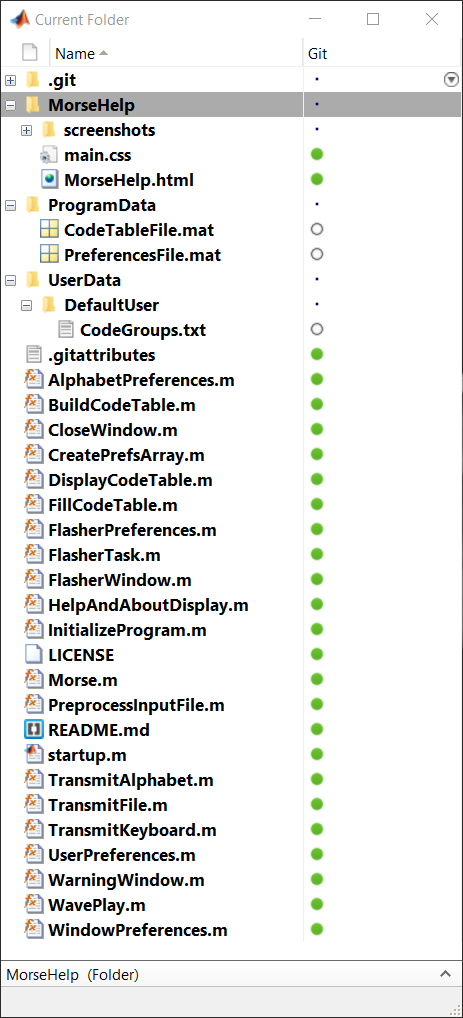
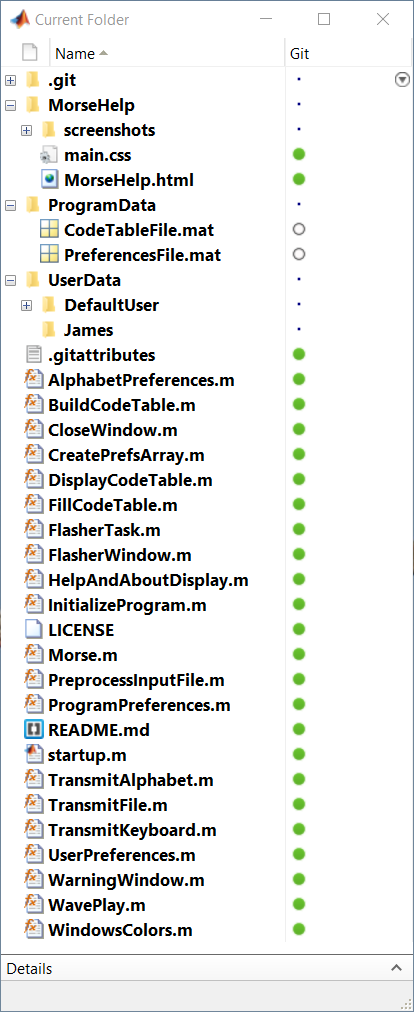
Updated help and user preferences

diff --git a/MorseHelp/MorseHelp.html b/MorseHelp/MorseHelp.html
@@ -113,14 +113,14 @@
             
         </a><h5>4.1.1 Drop Down Menu</h5>
         <p>
-        The drop down menu on the main program figure has the following choices:
+        The drop down menu on the main program figure has the following choices. The details are fully explained in subsequent sections detailing each of the program windows.
         </p>
         <li><em>Preferences</em>
                 <ul>
-                    <li>UserPreferences - Opens the User Preferences to allow the user to make changes or select a different user
+                    <li>UserPreferences - Opens the User Preferences Window to allow the user to make changes to a user, add a user, delete a user or select a user to be the active user.
                     </li>
                     <li>
-                    Window Preferences - Opens the Windows Preferences to allow the user to select save window position on exit
+                    Program Preferences - Opens the Program Preferences Window to allow the user to manage a number of program preferences and options. Also there are a number of screens and objedts whose color can be customized by the user.
                     </li>
                     <li>
                     Reset All Preferences - Deletes all added users and returns the program to its initial state.
@@ -154,7 +154,7 @@
             <img alt="A screenshot showing User Preferences" src="screenshots/UserPreferencesWindow.png"/ width="400">
         </a>
         <p>
-            This window displays the currently selected user at the top of the window. The drop down box labeled "Select a User" can be selected to allow you to "Add a New User" or to select a user from the list displayed.  If a user is selected, that users preferences are displayed and can be edited if desired. After the editing is complete, select "Save" to save the changes. If the user selected is not the "Currently Selected User", then "Make Active" can be selected and the current user will be replaced with the new or changed user.  Also the selected user can be deleted if desired.  Note that the Default User cannot be deleted or edited. Depending on the task being performed, only certain of the action buttons along the bottom of the window are displayed or enabled.
+            This window displays the currently selected user at the top of the window. The drop down box labeled "Select a User" can be selected to allow you to "Add a New User" or to select a user from the list displayed.  If a user is selected, that users preferences are displayed and can be edited if desired. After the editing is complete, select "Save" to save the changes. If the user selected is not the "Currently Selected User", then "Make Active" can be selected and the current user will be replaced with the new or changed user.  Also the selected user can be deleted if desired.  Depending on the task being performed, only certain of the action buttons along the bottom of the window are displayed or enabled.
         </p>
         <p>------------------------------------------------------------------------------------------------------------------------------------------------------</p>
         <h5 id="4.1.2">4.1.2 Program Preferences Window</h5>
@@ -178,9 +178,39 @@
                 Flasher - There is a checkbox to enable the Flasher function. The default value is unchecked. If enabled, the Flasher window will open during any of the transmission modes and a visual display of the dots and dashes will be shown. The On and Off buttons allow the user to selecr these respective colors. Clicking either button will open a color selector to select a color.
             </li>
         </ul>
-            
+        <p>
+            Along the bottom of the window are three "action" buttons. Exit of course closes the window and returns to the main window without making any changes. Save will save any changes before closing. Finally Color will open a Color Preferences window which is described next.
+        </p>    
+
+       <p>------------------------------------------------------------------------------------------------------------------------------------------------------</p>
+       
+        <h5 id="4.1.3">4.1.3 Color Preferences Window</h5>
+        <p>
+            When Color is selected on the Program Preferences Window, the window shown below opens. 
+        </p>
+        <a href="screenshots/ColorWindow.png">
+            <img alt="A screenshot showing Color Preferences" src="screenshots/ColorWindow.png"/ width="400">
+        </a>
+        <p>
+            x
+            </p>
+        <ul>
+            <li>
+                x
+            </li>
+            <li>
+                x
+            </li>
+            <li>
+                x
+            </li>
+        </ul>
+        <p>
+            x
+        </p>    
 
         <p>------------------------------------------------------------------------------------------------------------------------------------------------------</p>
+        
         <h4 id="4.2">4.2 Transmit from Alphabet Window</h4>
         <p>
             When Transmit Alphabet is selected on the main window, the window shown below opens.

diff --git a/UserPreferences.m b/UserPreferences.m
@@ -222,6 +222,9 @@ function UserPreferences()
      
 %% UpdateUserCallback ---------------------------------------------
 function UpdateUserCallback(src, ~, num)
+    
+    set(UserNameHandle,'enable','inactive');
+    
     switch num
         case 0  % Drop Down Menu
             dropdownSelect = get(src,'Value');
@@ -260,26 +263,7 @@ function UpdateUserCallback(src, ~, num)
                 set(DeletePushbuttonHandle,'enable','inactive');
             end
             
-            if dropdownSelect == 3  % Default user selected
-                set(UserNameHandle,'string',allUsersPrefs{1, userSelect});
-                set(CodeSpeedHandle,'string',allUsersPrefs{2, userSelect});
-                set(WordSpeedHandle,'string',allUsersPrefs{3, userSelect});
-                set(FrequencyHandle,'string',allUsersPrefs{4, userSelect});
-                set(UserNameHandle,'enable','inactive');
-                set(CodeSpeedHandle,'enable','inactive');
-                set(WordSpeedHandle,'enable','inactive');
-                set(FrequencyHandle,'enable','inactive');
-                set(SaveAddPushbuttonHandle,'string','');
-                set(SaveAddPushbuttonHandle,'enable','inactive');
-                set(DeletePushbuttonHandle,'string','');
-                set(DeletePushbuttonHandle,'enable','inactive');
-                if currentUserIndex > 2
-                    set(MakeActivePushbuttonHandle,'string','Make Active');
-                    set(MakeActivePushbuttonHandle,'enable','on');
-                end
-            end
-            
-            if dropdownSelect > 3
+            if dropdownSelect > 2
                 set(UserNameHandle,'string',allUsersPrefs{1, userSelect});
                 set(CodeSpeedHandle,'string',allUsersPrefs{2, userSelect});
                 set(WordSpeedHandle,'string',allUsersPrefs{3, userSelect});
@@ -289,12 +273,17 @@ function UpdateUserCallback(src, ~, num)
                 set(FrequencyHandle,'enable','on');
                 set(SaveAddPushbuttonHandle,'string','Save');
                 set(SaveAddPushbuttonHandle,'enable','on');
-                if currentUserIndex ~= userSelect
+                if currentUserIndex ~= userSelect %Didnt select active user
                     set(MakeActivePushbuttonHandle,'string','Make Active');
                     set(MakeActivePushbuttonHandle,'enable','on');
                 end
-                set(DeletePushbuttonHandle,'string','Delete');
-                set(DeletePushbuttonHandle,'enable','on');
+                if userSelect == 2  % Selected Default User
+                    set(DeletePushbuttonHandle,'string','');
+                    set(DeletePushbuttonHandle,'enable','inactive');
+                else
+                    set(DeletePushbuttonHandle,'string','Delete');
+                    set(DeletePushbuttonHandle,'enable','on');
+                end
                 
             end   
             
@@ -303,14 +292,12 @@ function UpdateUserCallback(src, ~, num)
             inputCount(1) = 1;
             if dropdownSelect == 2  % Add new user
                 tempNewUser{1} = userName;
-            else
-                allUsersPrefs{1, userSelect} = userName;
             end
 
         case 2  % Code Speed
             codeSpeed = str2double(get(src,'String'));
             if isnan(codeSpeed)
-                WarningWindow(windowsPrefs,numericWarning1);
+                WarningWindow(numericWarning1);
                 set(src,'String',' ');
                 inputCount(2) = 0;
                 return
@@ -359,7 +346,7 @@ function UpdateUserCallback(src, ~, num)
                 % operator
                 for index0 = 1:4
                     if inputCount(index0) ~= 1
-                        WarningWindow(windowsPrefs,numericWarning2);
+                        WarningWindow(numericWarning2);
                         return
                     end
                 end
@@ -373,6 +360,8 @@ function UpdateUserCallback(src, ~, num)
                 % Add the new user to the drop down menu
                 allUserNames = [allUserNames tempNewUser{1}];
                 
+                % Make the user name entry inactive
+                set(UserNameHandle,'enable','inactive');
                 
                 % Make a new directory if one doesnt already exist
                 newDir = ['UserData/' tempNewUser{1}];
@@ -389,19 +378,13 @@ function UpdateUserCallback(src, ~, num)
             set(CodeSpeedHandle,'string',' ');
             set(WordSpeedHandle,'string',' ');
             set(FrequencyHandle,'string',' ');  
-            
-            % Update glob variables
-            selectedUserName = allUsersPrefs{1, userSelect};
-                glob.selectedUserName = selectedUserName;
-                glob.selectedUserIndex = userSelect;
-                glob.dotTime = round(1./allUsersPrefs{2, userSelect},2);
-                
+                            
             % Update all the files
             save('ProgramData/PreferencesFile.mat',...
                 'allUsersPrefs', 'windowsPrefs','glob');
             
             % Update Morse.n if the current user is modified
-            if dropdownSelect > 3
+            if dropdownSelect > 2
                 if currentUserIndex ==  userSelect
                     delete(gcf)
                     delete(MorseFigHandle)
@@ -429,18 +412,23 @@ function UpdateUserCallback(src, ~, num)
             messageString = ...
                 ['This will delete the currently selected User. '...
                         'Select OK to procede or Exit to cancel']; 
-            warningAction = WarningWindow(windowsPrefs,messageString);
+            warningAction = WarningWindow(messageString);
         
             if warningAction == 1    % User didn't cancel so do it! 
                 % If the deleted user is the selected user, make the
                 % Default User the selected user.
-                if allUsersPrefs{9, userSelect} == 1
+
+                if userSelect == glob.selectedUserIndex
+                    allUsersPrefs{9, userSelect} = 0;
                     allUsersPrefs{9, 2} = 1;
+                    glob.selectedUserName = allUsersPrefs{1, 2};
+                    glob.selectedUserIndex = 2;
+                    glob.dotTime = round(1./allUsersPrefs{2, 2},2);
                 end
 
                 % Remove the Users folder and all files therein
                 dirToRemove = ...
-                    ['UserData/' allUserNames{userSelect}];
+                    ['UserData/' allUsersPrefs{1, userSelect};];
                 rmdir(dirToRemove, 's');
 
                 % Remove the user from the drop down menu

diff --git a/Morse.m b/Morse.m
@@ -11,7 +11,7 @@ function Morse()
 % Load the PreferencesFile.mat file from the ProgramData directory.
     load('ProgramData/PreferencesFile.mat',...
         'allUsersPrefs', 'windowsPrefs', 'glob');
-
+    
 % Setup Current User data
     activeUserIndex = glob.selectedUserIndex;
     userName = glob.selectedUserName;
@@ -21,7 +21,7 @@ function Morse()
     wordSpeed = allUsersPrefs{3,activeUserIndex};
     frequency = allUsersPrefs{4,activeUserIndex};
     samplesPerCycle = 200;
-    codeTable = FillCodeTable(codeSpeed, wordSpeed,...
+   codeTable = FillCodeTable(codeSpeed, wordSpeed,...
         frequency, samplesPerCycle);
     
 % Save the codeTable to the CodeTableFile.mat file in the ProgramData

diff --git a/TransmitAlphabet.m b/TransmitAlphabet.m
@@ -283,15 +283,7 @@ function TransmitAlphabet()
 
 %%  SelectModeCallback --------------------------------------------
     function SelectModeCallback(~, ~, ~)
-        if activeUserIndex == 2
-            messageString = [' Cant change Default User.',...
-                ' Change to another user or add a new user',...
-                ' from main window drop down menu - User Preferences'];
-            WarningWindow(messageString);
-            return
-        else
            AlphabetPreferences(AlphabetWinHandle);
-        end
     end % end SelectModeCallback
 
 %% StartStopCallback callback -------------------------------------

diff --git a/WindowsColors.m b/WindowsColors.m
@@ -24,7 +24,7 @@ function WindowsColors()
         'NumberTitle', 'off', 'Toolbar', 'none', 'Resize', 'off',...  
         'MenuBar', 'none', 'DockControls', 'off',...
         'Color', glob.figureColor ,...
-        'Name', 'Program Preferences'...
+        'Name', 'Windows Colors'...
     );
     
 % Set up Application title
